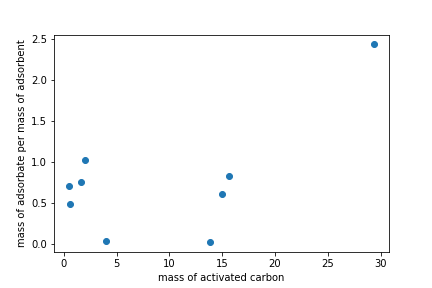
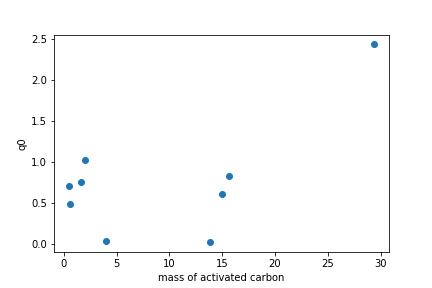
lab

Changed region(s): [[0.0301, 0.125, 0.0602, 0.875]]

diff --git a/Postlabs/Adsorption.md b/Postlabs/Adsorption.md
@@ -1,24 +1,74 @@
-### Data Analysis and Questions: Lab , Group 6
+### Data Analysis and Questions: Lab 6, Group 6
 #### Ian Starnes and Barbara Oramah
-
-- Plot the breakthrough curves showing C/C0 versus time.
-
-- Find the time when the effluent concentration was 50% of the influent concentration and plot that as a function of the mass of activated carbon used.
-
-- Calculate the retardation coefficient (Radsorption) based on the time to breakthrough for the columns with and without activated carbon.
-
-- Calculate the q0 for each of the columns based on equation (97). Plot this as a function of the mass of activated carbon used.
-
-- What did you learn from this analysis? How can you explain the results that you have obtained? What changes to the experimental method do you recommend for next year (or for a project)?
-
-
-We learned from this analysis that, the more activated carbon in the filter
-
 
 ### Data Analysis
 
+- Plot the breakthrough curves showing C/C0 versus time.
+
+Breakthrough is defined as the time that mass of red dye goes passes through the filter when the activated carbon (the adsorbent) can no longer adsorb the red dye (the adsorbate).
+
+<p align="center"> <img src="https://github.com/IanStarnes/Barbara-And-Ian/blob/master/images/Sand_column.png?raw=true" heights=110 width=427> </p>
+
+<p align="center">
+<b>Figure 1 </b>: Breakthrough curves showing C/C0 vs. time with two different flow rates.
+</p>
+
+As time progresses, the red dye passes through through the filter with a concentration close to the influent. The steep slope increase represents the mass transfer zone breakthrough.
+
+<p align="center"> <img src="https://github.com/IanStarnes/Barbara-And-Ian/blob/master/images/Activated_carbon.png?raw=true9" heights=110 width=427> </p>
+
+<p align="center">
+<b>Figure 2 </b>: Tracer curves for columns with different masses of activated carbon vs. time over hydraulic residence time.
+</p>
+
+
+<p align="center"> <img src="https://github.com/IanStarnes/Barbara-And-Ian/blob/master/images/Activated_carbon%20close%20up.png?raw=true" heights=110 width=427> </p>
+
+<p align="center">
+<b>Figure 3 </b>: Figure 2 with tighter limits.
+</p>
+
+Figure 2 and Figure 3 shows clearly that filters with high mass of activated carbon take a longer amount of time to breakthrough.
+
+
+- Find the time when the effluent concentration was 50% of the influent concentration and plot that as a function of the mass of activated carbon used.
+
+<p align="center"> <img src="https://github.com/IanStarnes/Barbara-And-Ian/blob/master/images/time_half.png?raw=true" heights=110 width=427> </p>
+
+<p align="center">
+<b>Figure 4 </b>: Time of when effluent concentration was 50% of influent concentration as a function of mass of activated carbon used.
+</p>
+
+With greater masses of activated carbon in the filter, there is positive correlation to the the increase in time for the effluent to reach 50% of the influent. This is not necessarily clear to see with small masses of activated carbon between 0 and 5 grams of activated carbon
+
+- Calculate the retardation coefficient (Radsorption) based on the time to breakthrough for the columns with and without activated carbon.
+
+<p align="center"> <img src="https://github.com/IanStarnes/Barbara-And-Ian/blob/master/images/R_adsorption.png?raw=true" heights=110 width=427> </p>
+
+<p align="center">
+<b>Figure 5 </b>: Retardation coefficient as a function of mass of activated carbon used.
+</p>
+
+
+- Calculate the q0 for each of the columns based on equation (97). Plot this as a function of the mass of activated carbon used.
+
+<p align="center"> <img src="" heights=110 width=427> </p>
+
+<p align="center">
+<b>Figure 6 </b>: q0 as a function of mass of activated carbon used.
+</p>
+
+q0 is defined as the mass of  adsorbate per mass of adsorbent.
+
+$$ q_0 = (R{adsorption} -1 )\frac{C_0\phi V_{column}}{M_{adsorbent}} $$
+
+- What did you learn from this analysis? How can you explain the results that you have obtained? What changes to the experimental method do you recommend for next year (or for a project)?
+
+We learned from this analysis that, the more activated carbon in the filter..
 
 ### Conclusion
+
+In conclusion,
 
 
 ### Suggestion
@@ -131,6 +181,17 @@ plt.legend(mylegend);
 plt.savefig('images/Activated_carbon')
 plt.show()
 
+mylegend =[]
+for i in range(np.size(filenames)):
+  if (metadata['carbon (g)'][i] != 0):
+    plt.plot(time_data[i]/HRT[i] - Tubing_HRT[i]/HRT[i], C_data[i]/C_0,'-');
+    mylegend.append(str(ut.round_sf(metadata['carbon (g)'][i],3)) + ' g, ' + str(ut.round_sf(metadata['flow (mL/s)'][i],2)) + ' mL/s')
+plt.xlabel(r'$\frac{t}{\theta}$');
+plt.xlim(right=10,left=0);
+plt.ylabel(r'Red dye (C/Co) $\left ( unitless \right )$');
+plt.legend(mylegend);
+plt.savefig('images/Activated_carbon close up')
+plt.show()
 
 # Question Two
 C_half = np.zeros(13) * (u.mg/u.L)
@@ -151,10 +212,10 @@ time_half[11]=time_half[11]*5
 C_half
 C_data[12]
 
-plt.plot(Mass_carbon,time_half);
-plt.yscale('log', basey=10)
+plt.plot(Mass_carbon,time_half, 'o');
+#plt.yscale('log', basey=10)
 plt.ylabel(r'time');
-plt.xlabel(r'mass of activated carbon');
+plt.xlabel(r'mass of activated carbon (g)');
 plt.savefig('images/time_half')
 plt.show()
 
@@ -173,17 +234,17 @@ t_mtz_target = time_half
 R_adsorption = t_mtz_target/t_water
 R_adsorption[11]=R_adsorption[11]*5
 R_adsorption
-plt.plot(Mass_carbon,R_adsorption);
+plt.plot(Mass_carbon,R_adsorption, 'o');
 plt.ylabel(r'R_adsorption');
-plt.xlabel(r'mass of activated carbon');
+plt.xlabel(r'mass of activated carbon (g)');
 plt.savefig('images/R_adsorption')
 plt.show()
 
 # Question Four
 q0=(R_adsorption-1)*(C_0*porosity*V_column/Mass_carbon)
-plt.plot(Mass_carbon,q0);
-plt.ylabel(r'mass of adsorbate per mass of adsorbent');
-plt.xlabel(r'mass of activated carbon');
+plt.plot(Mass_carbon,q0, 'o');
+plt.ylabel(r'q0')
+plt.xlabel(r'mass of activated carbon (g)');
 plt.savefig('images/q0')
 plt.show()
 ```
